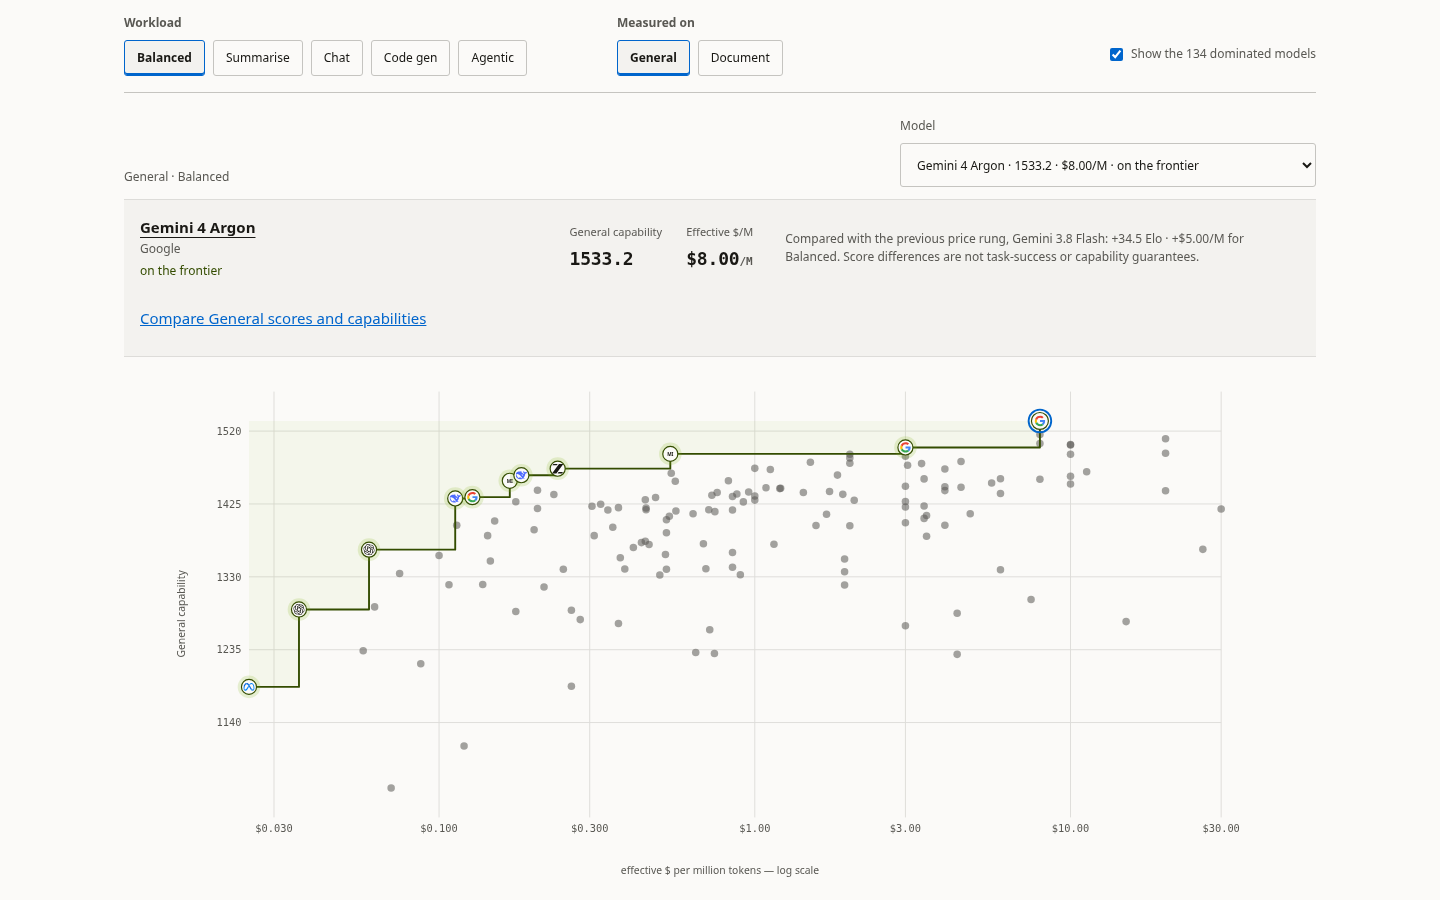
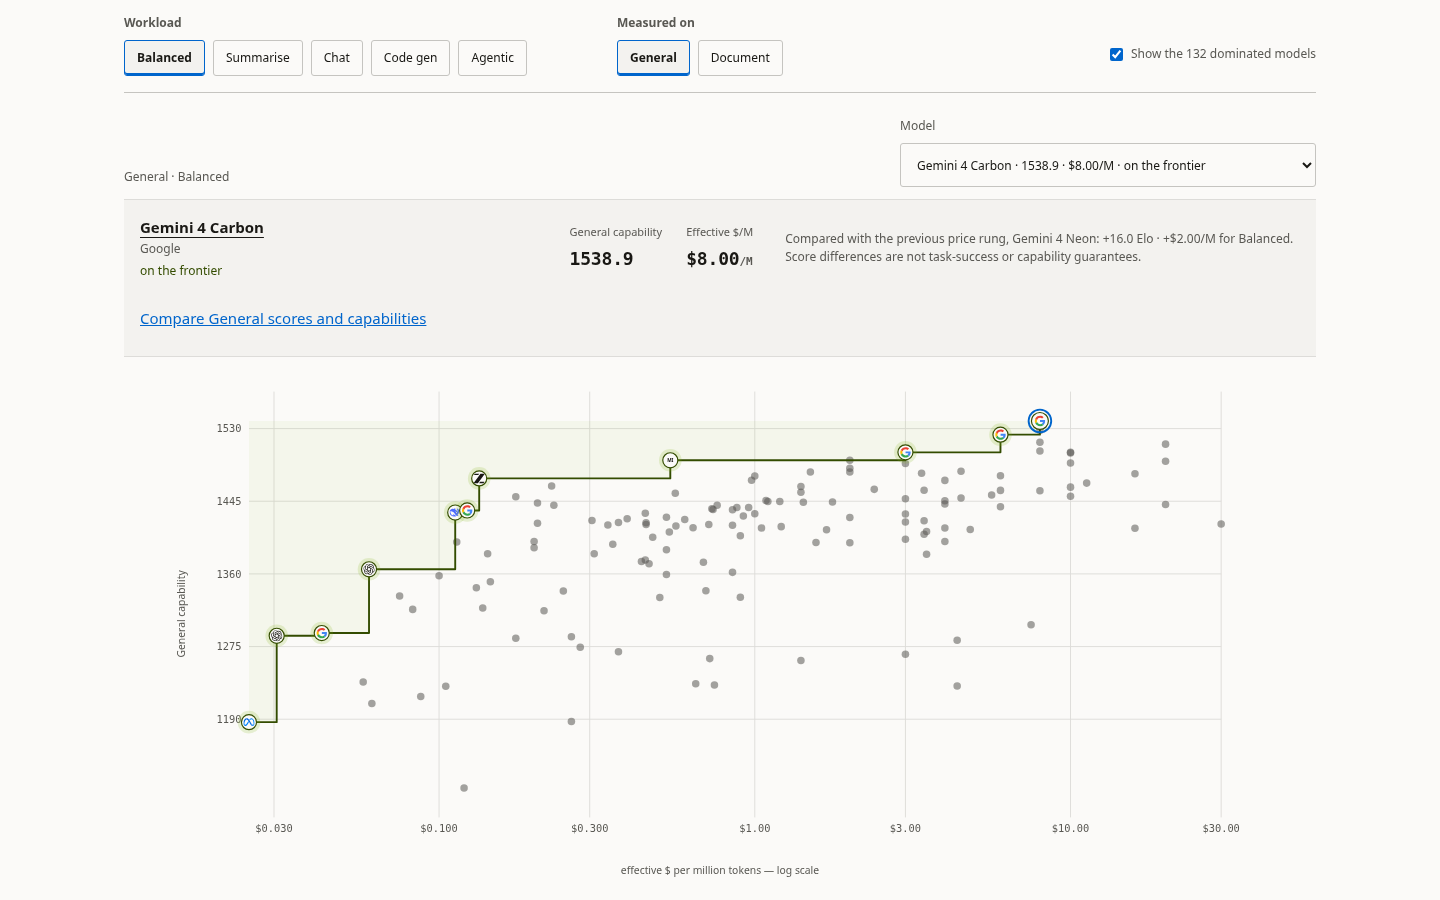
README and docs: the site as it is on 2026-11-25, and how it is paid
The README said "No affiliate links", "No paid placement" and "Revenue in v1:
none". Since 2026-11-18 the site allows advertising, sponsorship and referral
links, labelled and kept outside the ranked table, and since 2026-11-24 it
sells fixed-fee workload reviews; the data licence page is live with a draft
licence not in force. The README's Independence section, its comparison
table, docs/SHARE.md and the issue-template config now say what
https://undominated.ai/independence/ says.

- Figures, hero and floor table regenerated from the live site after release
  20261125-224137-3ffac85dbc6e: 132 of 143 dominated, median overpay 7.4x,
  453 listings, 58 provider labels, 76 distinct ranks across 143, spread
  3,000x, 47 dated snapshots.
- Screenshots: all nine reshot on 2026-11-25 (the 2026-10-15 set was past the
  30-day check, red since 2026-11-07); the unreferenced
  skills-2026-10-07.png removed.
- Nine live pages the README did not list: /rankings/, /families/, /free/,
  /ranges/, /status/, /review/, /data-licence/, /advertise/, /privacy/; the
  rankings index, wire events, /feed.xml, workflows and the floor series in
  the README and docs/PLATFORM.md.
- docs/RESOURCES.md: the site's own resources counted from the live indexes
  (222 skills, 103 agent profiles, 1 MCP server).
- Downloads: releases and the Hugging Face copy are cut by hand and can trail
  the live board.

refresh-readme, build-hero, build-floor-table and shots-current --check pass;
[…]

diff --git a/README.md b/README.md
@@ -49,17 +49,17 @@ Most AI “value” tables invent a score, then sort by it.
 
 Undominated.ai does the opposite. It ranks language models on **independently measured capability first**, then compares what they actually cost across providers. A model is named as dominated when another scores at least as high and costs no more, and is better on one of the two. A model that has not been measured is **unrated**, never zero.
 
-> **<!--fig:dominatedOfRated-->134 of 145<!--/fig-->** rated, priced models have an alternative on the board with a higher score or a lower price, with neither dimension worse. They cost a median **<!--fig:overpayMedian-->6.8×<!--/fig-->** the cheapest such alternative.<br>
+> **<!--fig:dominatedOfRated-->132 of 143<!--/fig-->** rated, priced models have an alternative on the board with a higher score or a lower price, with neither dimension worse. They cost a median **<!--fig:overpayMedian-->7.4×<!--/fig-->** the cheapest such alternative.<br>
 > **<!--fig:frontier-->11<!--/fig-->** are not. That set is the value frontier.
 
-Every catalogue and directory figure on this page is generated from the live site by `scripts/refresh-readme.mjs` and `scripts/build-floor-table.mjs`, last on **<!--fig:asOf-->2026-11-23<!--/fig-->** (<!--fig:models-->456<!--/fig--> catalogue listings, <!--fig:providers-->59<!--/fig--> provider labels). CI checks them, because a README that states a number by hand states a wrong one within the week. **[The live board is still the source](https://undominated.ai/).**
+Every catalogue and directory figure on this page is generated from the live site by `scripts/refresh-readme.mjs` and `scripts/build-floor-table.mjs`, last on **<!--fig:asOf-->2026-11-25<!--/fig-->** (<!--fig:models-->453<!--/fig--> catalogue listings, <!--fig:providers-->58<!--/fig--> provider labels). CI checks them, because a README that states a number by hand states a wrong one within the week. **[The live board is still the source](https://undominated.ai/).**
 
 <p align="center">
   <a href="https://undominated.ai/">
     <img src="docs/shots/board.png" alt="The leaderboard, ranked by measured quality first and effective price second, with each model's score, 95% interval, effective price, context window, capabilities and a verdict that names a better choice when one exists." width="100%">
   </a>
   <br>
-  <sub>Leaderboard · captured 2026-10-15 · chartreuse is frontier membership, not decoration</sub>
+  <sub>Leaderboard · captured 2026-11-25 · chartreuse is frontier membership, not decoration</sub>
 </p>
 
 <table>
@@ -108,7 +108,7 @@ Every catalogue and directory figure on this page is generated from the live sit
 
 ## Why a price index that refuses to average
 
-The dearest input price in the catalogue is about **<!--fig:spread-->3,214×<!--/fig-->** the cheapest. That is not a rounding error. It is the reason a “value score” is a marketing instrument: it can hide a worse-and-dearer row behind a single attractive number.
+The dearest input price in the catalogue is about **<!--fig:spread-->3,000×<!--/fig-->** the cheapest. That is not a rounding error. It is the reason a “value score” is a marketing instrument: it can hide a worse-and-dearer row behind a single attractive number.
 
 Undominated.ai publishes the uncomfortable version:
 
@@ -116,10 +116,10 @@ Undominated.ai publishes the uncomfortable version:
 | --- | --- |
 | A blended “value” rank | Capability first, effective price second. Never mixed into one score. |
 | Unrated at the bottom | Unrated is not zero. Models with no score on the benchmark the board ranks on are listed by price and kept out of quality order. [The methodology page states the current share](https://undominated.ai/methodology/). |
-| Integer ranks as fact | Significance ranks. Models the benchmark cannot separate **share a rank**: today the published confidence intervals leave **<!--fig:distinctRanks-->78<!--/fig--> distinct ranks across <!--fig:rankPositions-->145<!--/fig--> positions**. |
+| Integer ranks as fact | Significance ranks. Models the benchmark cannot separate **share a rank**: today the published confidence intervals leave **<!--fig:distinctRanks-->76<!--/fig--> distinct ranks across <!--fig:rankPositions-->143<!--/fig--> positions**. |
 | “Cheaper is better” | Cheaper is cheaper. A model is dominated when another scores at least as high and costs no more, and is better on one of the two. The other is a clean replacement only when it keeps every recorded capability: context window, maximum output, input modalities, tool use and reasoning. |
-| Headline $/M | **<!--fig:tiered-->78<!--/fig-->** of the <!--fig:models-->456<!--/fig--> catalogue listings change rate past a context threshold. The board reprices the row when your prompt crosses it. |
-| Affiliate “best” lists | **No cut of inference. No affiliate. No paid placement. No gateway.** |
+| Headline $/M | **<!--fig:tiered-->78<!--/fig-->** of the <!--fig:models-->453<!--/fig--> catalogue listings change rate past a context threshold. The board reprices the row when your prompt crosses it. |
+| Pay-to-rank “best” lists | **No fee buys inclusion, order, a verdict, a badge or a caveat.** Ads and referral links are allowed, labelled, and kept beside the ranked table, never in it. No gateway. |
 
 The method, the hedges and the licensing limits: [undominated.ai/methodology](https://undominated.ai/methodology/).
 
@@ -145,8 +145,9 @@ Every route answers a decision, not a document type.
 | Filter by requirements | [Model finder](https://undominated.ai/finder/) · [Comparisons](https://undominated.ai/compare/) · [Alternatives](https://undominated.ai/alternatives/) |
 | Find the cheapest model above a quality floor | [Cheapest at](https://undominated.ai/cheapest-at/) |
 | Replace a retiring model like for like | [Migration guide](https://undominated.ai/migrate/) · [Deprecations](https://undominated.ai/deprecations/) |
-| Browse every publishable model | [All models](https://undominated.ai/models/) · [New releases](https://undominated.ai/new/) |
+| Browse every publishable model | [All models](https://undominated.ai/models/) · [Families](https://undominated.ai/families/) · [New releases](https://undominated.ai/new/) |
 | Rank image, video or embedding models the same way | [Images](https://undominated.ai/images/) · [Video](https://undominated.ai/video/) · [Embeddings](https://undominated.ai/embeddings/) · [Vision input](https://undominated.ai/vision/) |
+| Read one benchmark's own board, with its source date and intervals | [Rankings by model type](https://undominated.ai/rankings/) |
 
 **Understand the price**
 
@@ -156,7 +157,7 @@ Every route answers a decision, not a document type.
 | Compare subscription plans to API | [Plans](https://undominated.ai/plans/) |
 | See whether shopping around is worth it | [Providers](https://undominated.ai/providers/) · [Spreads](https://undominated.ai/spreads/) · [OpenRouter or direct](https://undominated.ai/openrouter-vs-direct/) |
 | See where a headline rate changes | [Context cliffs](https://undominated.ai/cliffs/) · [Reasoning price](https://undominated.ai/reasoning-price/) · [Reasoning effort](https://undominated.ai/effort/) |
-| Use cheaper delivery conditions | [Batch](https://undominated.ai/batch/) · [Cached input](https://undominated.ai/cache/) · [Off-peak](https://undominated.ai/off-peak/) |
+| Use cheaper delivery conditions | [Batch](https://undominated.ai/batch/) · [Cached input](https://undominated.ai/cache/) · [Off-peak](https://undominated.ai/off-peak/) · [Free routes](https://undominated.ai/free/) (listed unranked) |
 | Follow what moved | [Price changes](https://undominated.ai/price-changes/) · [The wire](https://undominated.ai/wire/) · [Now](https://undominated.ai/now/) |
 | Avoid named pricing failure modes | [Traps](https://undominated.ai/traps/) |
 
@@ -179,8 +180,9 @@ Every route answers a decision, not a document type.
 | You want to | Open |
 | --- | --- |
 | Read how ranking is computed | [Methodology](https://undominated.ai/methodology/) · [Benchmark guide](https://undominated.ai/benchmarks/) · [Glossary](https://undominated.ai/glossary/) |
-| See which adjacent ranks the benchmark cannot separate | [Significance](https://undominated.ai/significance/) · [Blind rank test](https://undominated.ai/blind-rank/) · [Disagreement](https://undominated.ai/disagreement/) |
-| Hold the commercial boundaries | [Independence](https://undominated.ai/independence/) |
+| See which adjacent ranks the benchmark cannot separate | [Significance](https://undominated.ai/significance/) · [Ranges](https://undominated.ai/ranges/) · [Blind rank test](https://undominated.ai/blind-rank/) · [Disagreement](https://undominated.ai/disagreement/) |
+| See how old each source is | [Data freshness](https://undominated.ai/status/) |
+| See how the site is paid, and what money cannot change | [Independence](https://undominated.ai/independence/) · [Workload review](https://undominated.ai/review/) · [Data licence](https://undominated.ai/data-licence/) · [Advertise](https://undominated.ai/advertise/) · [Privacy](https://undominated.ai/privacy/) |
 | See applied corrections, or file one | [Corrections](https://undominated.ai/corrections/) · [Report](https://undominated.ai/report/) |
 | Read the data as JSON, or embed a verdict | [API](https://undominated.ai/api/) · [Badges](https://undominated.ai/badges/) · [Press kit](https://undominated.ai/press/) |
 
@@ -210,7 +212,7 @@ The [Skills](https://undominated.ai/skills/), [Agents](https://undominated.ai/ag
     <img src="docs/shots/skills.png" alt="The Skills directory: selected skills with original review notes, installation guidance and the source material behind each choice, grouped by task." width="100%">
   </a>
   <br>
-  <sub><a href="https://undominated.ai/skills/">Skills</a> · captured 2026-10-15</sub>
+  <sub><a href="https://undominated.ai/skills/">Skills</a> · captured 2026-11-25</sub>
 </p>
 
 ---
@@ -326,6 +328,8 @@ Machine-readable surfaces stay on the origin, where they can carry provenance:
 - [`/data/catalogue.json`](https://undominated.ai/data/catalogue.json): the public catalogue
 - [`/data/frontier.json`](https://undominated.ai/data/frontier.json): the published frontier
 - [`/data/resources/skills.json`](https://undominated.ai/data/resources/skills.json): reviewed resource indexes (also `agents`, `mcp-servers`, `workflows`)
+- [`/data/rankings/index.json`](https://undominated.ai/data/rankings/index.json): the separate ranking boards, each with its publisher and source date
+- [`/data/wire/events.json`](https://undominated.ai/data/wire/events.json) · [`/feed.xml`](https://undominated.ai/feed.xml): material catalogue events (price moves, context cuts, dated corrections)
 - [`/badge/<key>.svg`](https://undominated.ai/badges/): README dominance badge
 - [`/?format=md`](https://undominated.ai/?format=md): any page as Markdown
 - [`/now/`](https://undominated.ai/now/): dated frontier stamp (hash on the page)
@@ -343,6 +347,8 @@ The live board is rebuilt in place. A citation needs bytes that will still be th
 | The same dumps on Hugging Face | [`LPH98/undominated-ai-model-pricing`](https://huggingface.co/datasets/LPH98/undominated-ai-model-pricing) |
 | How to cite | [`CITATION.cff`](CITATION.cff) · [`datasets/README.md`](datasets/README.md) |
 | What is *not* citable | [`catalogue.json` and per-model JSON](https://undominated.ai/data/citation.json): rebuilt on every deploy, no date in the path |
+
+Releases and the Hugging Face copy are cut by hand, not by the daily refresh, so they can trail the live board by weeks. The release badge at the top shows the newest.
 
 LMArena Elo in the dump is **CC BY 4.0** from the official Hugging Face dataset. Vendor list prices are facts the vendor published. Artificial Analysis fields are **not in the file**.
 
@@ -363,13 +369,16 @@ Security reports: [open an advisory on this repository](https://github.com/Lenva
 
 ## Independence, in one screen
 
-- No cut of inference.
-- No affiliate links.
-- No paid placement, badges or “featured” rows.
-- No gateway. We do not sit on the request path.
-- Revenue in v1: none. A later paid feed, if it exists, would sell history and provenance, not a better rank.
+Money sits beside the ranking, never in it.
 
-The charter: [undominated.ai/independence](https://undominated.ai/independence/).
+- No gateway. We do not sell or resell inference, and we do not sit on the request path.
+- No paid rank. No fee buys inclusion, ordering, a verdict, a badge or a caveat.
+- Advertising, sponsorship and referral links have been allowed since 2026-11-18. Each carries an “Ad”, “Sponsored” or “Referral link” label and sits outside the ranked table. The independence page names every sponsor and referral programme in the release that makes it live.
+- Pages where you enter private data, and the pages that hold the site to account (methodology, corrections, independence, reports, the paper), carry no ads and no referral links.
+- Two paid services sit beside the board: [fixed-fee workload reviews](https://undominated.ai/review/), the same fee for any verdict, and a [licence for the dated record](https://undominated.ai/data-licence/) as a bulk feed, which carries no model prices. The licence text is a draft and not yet in force.
+- A test runs the board, the verdicts, the frontier and the hub rankings with an empty and a populated referral list and requires byte-identical output. It covers that code and nothing more; the page says so.
+
+The charter, and what is live today: [undominated.ai/independence](https://undominated.ai/independence/).
 
 ---
 
@@ -379,14 +388,14 @@ Everyone publishes today's prices. Nobody publishes what the **cheapest model cl
 
 <!--floors-->
 
-| Capability floor (LMArena) | 2026-08-24 | 2026-11-23 | Move | Cheapest today |
+| Capability floor (LMArena) | 2026-08-24 | 2026-11-25 | Move | Cheapest today |
 |:---|---:|---:|---:|:---|
 | **≥ 1200** | $0.0525 | $0.0306 | -42% | `openai/gpt-oss-20b` |
 | **≥ 1350** | $0.0525 | $0.06 | +14% | `openai/gpt-oss-120b` |
 | **≥ 1400** | $0.0611 | $0.1125 | +84% | `deepseek/deepseek-v4-flash` |
-| **≥ 1450** | $0.4961 | $0.1482 | -70% | `z-ai/glm-5.3-flash` |
+| **≥ 1450** | $0.4961 | $0.134 | -73% | `z-ai/glm-5.3-flash` |
 
-<sub>Effective $/M on the balanced workload, from 45 dated snapshots. Generated by `scripts/build-floor-table.mjs`. The floors are append-only — a threshold is never edited in place, because a moved goalpost turns a series into marketing.</sub>
+<sub>Effective $/M on the balanced workload, from 47 dated snapshots. Generated by `scripts/build-floor-table.mjs`. The floors are append-only — a threshold is never edited in place, because a moved goalpost turns a series into marketing.</sub>
 
 <!--/floors-->
 

diff --git a/docs/PLATFORM.md b/docs/PLATFORM.md
@@ -12,6 +12,7 @@
 | Does shopping around change the price? | [Providers](https://undominated.ai/providers/) · [Spreads](https://undominated.ai/spreads/) | Distinct sellers, precision and delivery terms; a row is not necessarily a competing company |
 | Where can a headline rate change? | [Context cliffs](https://undominated.ai/cliffs/) · [Reasoning price](https://undominated.ai/reasoning-price/) | Every applicable threshold and the unit being charged |
 | What does the benchmark support? | [Benchmark guide](https://undominated.ai/benchmarks/) · [Significance](https://undominated.ai/significance/) | Task scope, effort, sample coverage and uncertainty |
+| Which board measured this, and how fresh is it? | [Rankings](https://undominated.ai/rankings/) · [Data freshness](https://undominated.ai/status/) | The publisher, metric and source date of each board; a stale source is marked stale, not hidden |
 | Which resources can I integrate? | [Skills](https://undominated.ai/skills/) · [Agents](https://undominated.ai/agents/) · [MCP servers](https://undominated.ai/mcp-servers/) · [Tools](https://undominated.ai/tools/) | The source review, licence, permissions and installation instructions |
 
 ## Provider observations and coverage research
@@ -38,7 +39,11 @@ The public downloads expose results and methodology. They do not contain the pri
 | [`/data/resources/skills.json`](https://undominated.ai/data/resources/skills.json) | Reviewed skill index |
 | [`/data/resources/agents.json`](https://undominated.ai/data/resources/agents.json) | Reviewed agent-definition index |
 | [`/data/resources/mcp-servers.json`](https://undominated.ai/data/resources/mcp-servers.json) | Reviewed MCP-server index |
+| [`/data/resources/workflows.json`](https://undominated.ai/data/resources/workflows.json) | Reviewed workflow recipes |
 | [`/data/resources/skills/undominated-evidence-audit.json`](https://undominated.ai/data/resources/skills/undominated-evidence-audit.json) | Example full resource review: selection notes, licence, permissions and untested scope |
+| [`/data/rankings/index.json`](https://undominated.ai/data/rankings/index.json) | Index of the separate ranking boards, each with its publisher, metric and source date |
+| [`/data/wire/events.json`](https://undominated.ai/data/wire/events.json) | Material catalogue events: price moves, context cuts and dated corrections |
+| [`/data/series/price-at-floor.json`](https://undominated.ai/data/series/price-at-floor.json) | The capability-floor series the table below is generated from |
 | [`/data/citation.json`](https://undominated.ai/data/citation.json) | Citation metadata and dated, hashed citable surfaces |
 | [`/llms.txt`](https://undominated.ai/llms.txt) | Agent-facing navigation to the public platform |
 
@@ -46,20 +51,20 @@ Quote the source URL and date alongside a value. Do not treat software licensing
 
 ## Dated catalogue snapshot
 
-The following values are generated from the published JSON by `scripts/refresh-readme.mjs`, rather than entered as editorial estimates. As of **<!--fig:asOf-->2026-11-23<!--/fig-->**, the catalogue contains **<!--fig:models-->456<!--/fig--> listings** across **<!--fig:providers-->59<!--/fig--> provider labels**. These are catalogue counts, not the resource-directory counts or canonical seller-owner counts above.
+The following values are generated from the published JSON by `scripts/refresh-readme.mjs`, rather than entered as editorial estimates. As of **<!--fig:asOf-->2026-11-25<!--/fig-->**, the catalogue contains **<!--fig:models-->453<!--/fig--> listings** across **<!--fig:providers-->58<!--/fig--> provider labels**. These are catalogue counts, not the resource-directory counts or canonical seller-owner counts above.
 
 The capability-floor series asks how the cheapest published model clearing a fixed benchmark threshold changed over recorded days. It does not measure the quality of untested models or guarantee suitability for a workload.
 
 <!--floors-->
 
-| Capability floor (LMArena) | 2026-08-24 | 2026-11-23 | Move | Cheapest today |
+| Capability floor (LMArena) | 2026-08-24 | 2026-11-25 | Move | Cheapest today |
 |:---|---:|---:|---:|:---|
 | **≥ 1200** | $0.0525 | $0.0306 | -42% | `openai/gpt-oss-20b` |
 | **≥ 1350** | $0.0525 | $0.06 | +14% | `openai/gpt-oss-120b` |
 | **≥ 1400** | $0.0611 | $0.1125 | +84% | `deepseek/deepseek-v4-flash` |
-| **≥ 1450** | $0.4961 | $0.1482 | -70% | `z-ai/glm-5.3-flash` |
+| **≥ 1450** | $0.4961 | $0.134 | -73% | `z-ai/glm-5.3-flash` |
 
-<sub>Effective $/M on the balanced workload, from 45 dated snapshots. Generated by `scripts/build-floor-table.mjs`. The floors are append-only — a threshold is never edited in place, because a moved goalpost turns a series into marketing.</sub>
+<sub>Effective $/M on the balanced workload, from 47 dated snapshots. Generated by `scripts/build-floor-table.mjs`. The floors are append-only — a threshold is never edited in place, because a moved goalpost turns a series into marketing.</sub>
 
 <!--/floors-->
 

diff --git a/docs/RESOURCES.md b/docs/RESOURCES.md
@@ -13,7 +13,7 @@ Choose a resource for a concrete task, read its contract, and check its installa
 | `undominated-check@0.5.0` | 11 | 6 | 1 bundled server | Published and anonymously verified 2026-10-09; guided client and project/global choices, preview and cancellation. Same 18-resource bundle and 69 source hashes as 0.4.0. [Evidence](EVIDENCE.md#guided-installer--050-verified-2026-10-09) |
 | `undominated-mcp@0.1.0` | — | — | 1 standalone server | Published; five tools, stdio and live-response checks verified |
 | GitHub source | 74 | 12 | 1 server | Eleven skills and six profiles are the npm-mapped set; 63 skills and six profiles are source-only. Pinned acquisition and file equality were verified for the 26 website-listed skills at `a67bd9b`, not for every source directory. The three library-intake skills and the library-intake editor added on 2026-10-08 are outside that receipt and outside npm through `0.4.0`. |
-| Website original entries | 26 | 6 | 1 server | Eleven skills, six profiles and the MCP server are in npm 0.4.0; 15 further skills use pinned GitHub installation and complete website downloads |
+| Website original entries | 222 | 103 | 1 server | Counted 2026-11-25 from the published indexes (publisher `Undominated.ai`). 26 skills, six profiles and the MCP server name this repository at `a67bd9b` as their source; eleven of those skills and the six profiles are in npm `0.5.0`. The other 196 skills and 97 profiles name a download on undominated.ai. 148 of those skills and 91 of those profiles are not in this repository. |
 
 For guided setup of the bundled resources, run this in your terminal:
 

diff --git a/docs/SHARE.md b/docs/SHARE.md
@@ -12,7 +12,7 @@ Do not quote a number from memory. The board moves. Use a surface that carries a
 >
 > https://undominated.ai/methodology/
 
-> No cut of inference. No affiliate. No gateway. Capability first, then price.
+> Money sits beside the ranking, never in it. No gateway. Capability first, then price.
 >
 > https://undominated.ai/independence/
 
